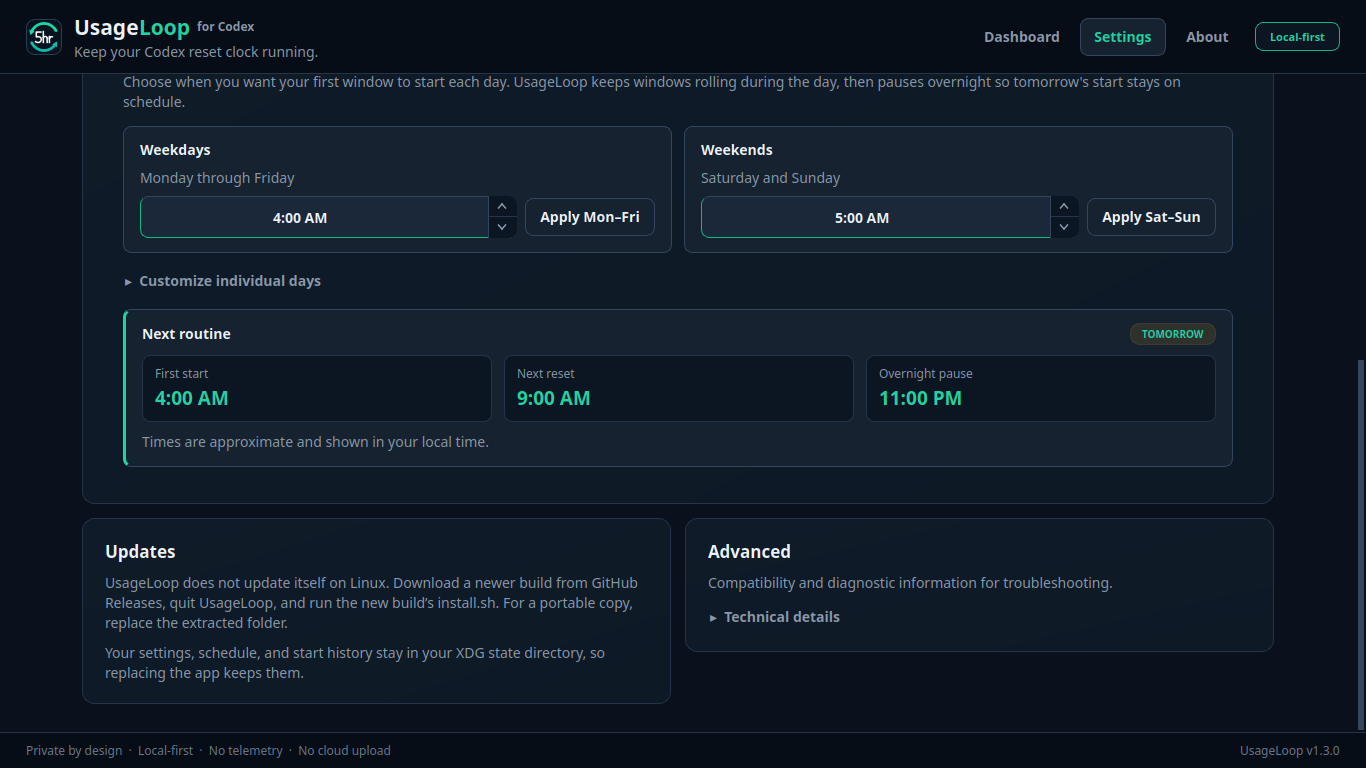
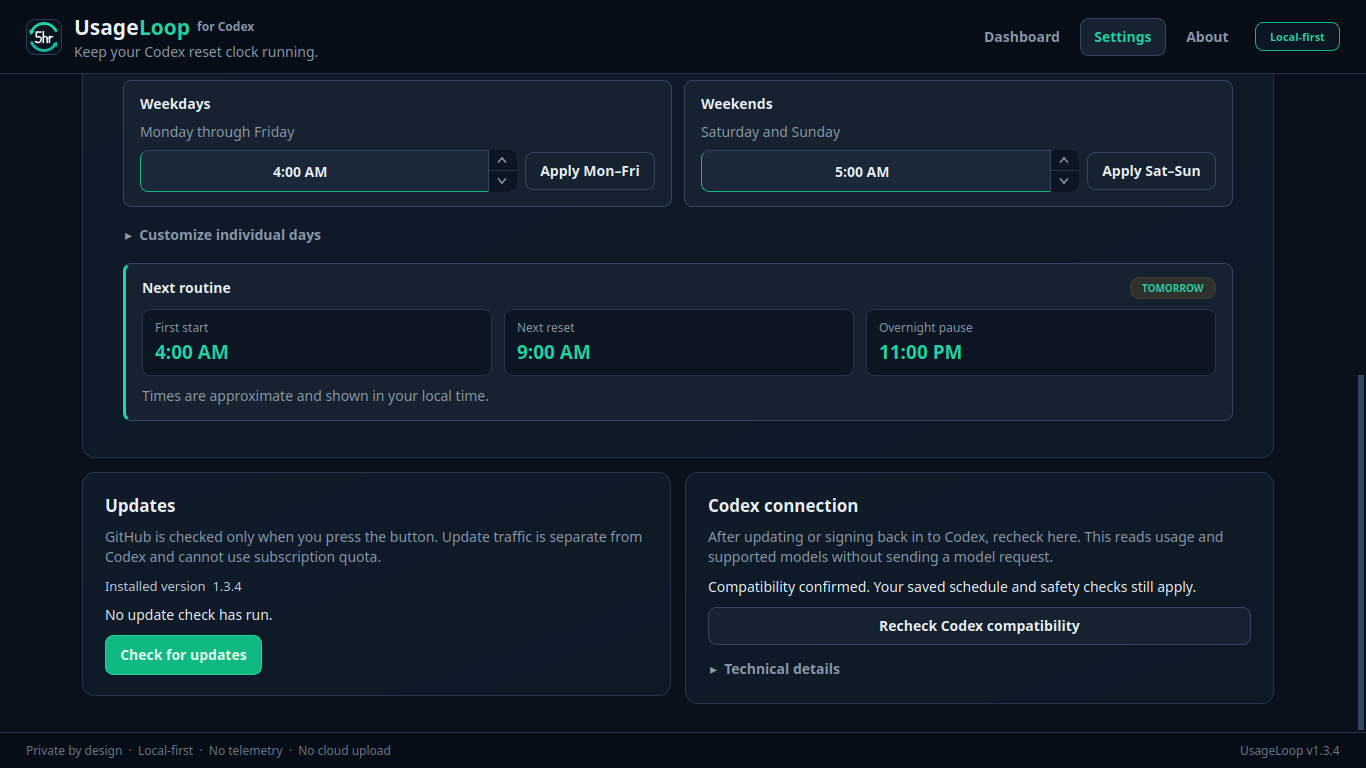
Prepare Windows and Linux launch for 1.3.4

diff --git a/docs/index.html b/docs/index.html
@@ -3,14 +3,14 @@
 <head>
   <meta charset="utf-8">
   <meta name="viewport" content="width=device-width, initial-scale=1">
-  <title>UsageLoop for Codex | Plan when your Codex day starts</title>
+  <title>UsageLoop for Codex | Windows &amp; Linux</title>
   <meta name="description" content="UsageLoop is a local-first desktop app for Windows and Linux that starts your next Codex 5-hour window on a schedule you choose, including separate weekday and weekend times. It does not add quota or bypass limits.">
   <link rel="canonical" href="https://benthompsondev.github.io/usageloop/">
   <meta name="theme-color" content="#08131f">
 
   <meta property="og:type" content="website">
   <meta property="og:site_name" content="UsageLoop">
-  <meta property="og:title" content="UsageLoop for Codex">
+  <meta property="og:title" content="UsageLoop for Codex | Windows &amp; Linux">
   <meta property="og:description" content="Plan when your Codex day starts. Set weekday and weekend first-start times, keep windows rolling, and pause overnight. Local-first for Windows and Linux, no API key or telemetry.">
   <meta property="og:url" content="https://benthompsondev.github.io/usageloop/">
   <meta property="og:image" content="https://benthompsondev.github.io/usageloop/screenshots/dashboard-1600x900.png">
@@ -18,7 +18,7 @@
   <meta property="og:image:height" content="900">
   <meta property="og:image:alt" content="UsageLoop dashboard showing a running Codex 5-hour window, weekly usage, and the next scheduled action">
   <meta name="twitter:card" content="summary_large_image">
-  <meta name="twitter:title" content="UsageLoop for Codex">
+  <meta name="twitter:title" content="UsageLoop for Codex | Windows &amp; Linux">
   <meta name="twitter:description" content="Plan when your Codex day starts. Weekday and weekend start times, rolling windows, overnight pause. Local-first for Windows and Linux, no API key or telemetry.">
   <meta name="twitter:image" content="https://benthompsondev.github.io/usageloop/screenshots/dashboard-1600x900.png">
 
@@ -34,6 +34,7 @@
     "description": "A local-first desktop app for Windows and Linux that starts your next Codex 5-hour window on a schedule you choose, including separate weekday and weekend first-start times, with rolling daytime windows and an overnight pause. It does not add quota or bypass limits.",
     "applicationCategory": "UtilitiesApplication",
     "operatingSystem": ["Windows", "Linux"],
+    "softwareVersion": "1.3.4",
     "isAccessibleForFree": true,
     "license": "https://github.com/benthompsondev/usageloop/blob/main/LICENSE",
     "url": "https://benthompsondev.github.io/usageloop/",
@@ -130,7 +131,7 @@
         <p><strong>Next routine, in plain numbers.</strong><br>The card shows the upcoming first start, the next reset five hours later, and when the overnight pause begins.</p>
       </div>
       <p>Need a day off? <strong>Pause until tomorrow</strong> waits until tomorrow's configured first-start time without changing your routine. You can resume early from the Dashboard or tray.</p>
-      <p>New in v1.3.0: <strong>Recent starts</strong> shows your last ten window-start attempts from the Dashboard or tray. See which starts were confirmed, not sent, or left uncertain. It reads existing local history and makes no Codex requests.</p>
+      <p><strong>Recent starts</strong> shows your last ten window-start attempts from the Dashboard or tray. See which starts were confirmed, not sent, or left uncertain. It reads existing local history and makes no Codex requests.</p>
       <a class="screenshot-link" href="screenshots/recent-starts.png" aria-label="Open the Recent starts screenshot">
         <img class="product-shot" src="screenshots/recent-starts.png" alt="Recent starts showing a confirmed window start and an earlier unconfirmed attempt" loading="lazy" width="660" height="640" style="max-width: 660px">
       </a>
@@ -159,7 +160,7 @@
         <div class="download-panel">
           <p class="panel-title">Windows</p>
           <p class="panel-note">An x64-compatible Windows PC. The installer is per-user and needs no administrator rights.</p>
-          <a class="button primary wide" href="https://github.com/benthompsondev/usageloop/releases/latest/download/UsageLoop-Setup.exe">Download the installer</a>
+          <a class="button primary wide" href="https://github.com/benthompsondev/usageloop/releases/latest/download/UsageLoop-Setup.exe">Download for Windows</a>
           <div class="download-links">
             <a href="https://github.com/benthompsondev/usageloop/releases/latest">Release notes</a>
             <a href="https://github.com/benthompsondev/usageloop/releases/latest/download/UsageLoop-Setup.exe.sha256">SHA-256 checksum</a>
@@ -169,12 +170,13 @@
         <div class="download-panel">
           <p class="panel-title">Linux</p>
           <p class="panel-note">An x86_64 Linux desktop with a graphical session. Installing is per-user and needs no root.</p>
-          <a class="button primary wide" href="https://github.com/benthompsondev/usageloop/releases/latest">Get the Linux archive</a>
+          <a class="button primary wide" href="https://github.com/benthompsondev/usageloop/releases/download/v1.3.4/UsageLoop-1.3.4-linux-x86_64.tar.gz">Download for Linux x86_64</a>
           <div class="download-links">
             <a href="https://github.com/benthompsondev/usageloop/releases/latest">Release notes</a>
+            <a href="https://github.com/benthompsondev/usageloop/releases/download/v1.3.4/UsageLoop-1.3.4-linux-x86_64.tar.gz.sha256">SHA-256 checksum</a>
             <a href="https://github.com/benthompsondev/usageloop#linux">Install steps</a>
           </div>
-          <p class="small">The archive is named <code>UsageLoop-&lt;version&gt;-linux-x86_64.tar.gz</code> with its <code>.sha256</code> beside it, so the download link goes to the release rather than a fixed filename. Verify the checksum, extract, then run <code>./install.sh</code> to add it to your application menu, or run it straight from the extracted folder.</p>
+          <p class="small">Version 1.3.4. Verify the checksum, extract the archive, then run <code>./install.sh</code> to add UsageLoop to your application menu. You can also run it directly from the extracted folder.</p>
           <p class="small">Tested on Ubuntu with GNOME. Other desktops should work but have not been checked. There is no ARM64 build.</p>
         </div>
       </div>
@@ -201,7 +203,7 @@
       <ol class="steps">
         <li><span>1</span><div><strong>Observe</strong><p>UsageLoop takes several local observations instead of trusting one changing timestamp.</p></div></li>
         <li><span>2</span><div><strong>Wait safely</strong><p>It waits for the current reset, checks the weekly limit, and reserves only one attempt.</p></div></li>
-        <li><span>3</span><div><strong>Start and verify</strong><p>When automation is on, it sends one minimal request and reports success only after the new reset clock is visible.</p></div></li>
+        <li><span>3</span><div><strong>Start and verify</strong><p>When automation is on, it sends one minimal guarded request and reports success only after the new reset clock is visible.</p></div></li>
       </ol>
     </section>
 
@@ -236,8 +238,12 @@
           <p>No. UsageLoop uses your installed, already signed-in Codex app and never reads its auth files or tokens.</p>
         </details>
         <details>
+          <summary>What if the Codex connection needs attention?</summary>
+          <p>After updating or signing back in to Codex, choose Recheck Codex compatibility. It reads usage and supported models without sending a model request or changing your routine.</p>
+        </details>
+        <details>
           <summary>What happens if my computer is asleep or turned off?</summary>
-          <p>UsageLoop cannot act while the computer is unavailable. It catches up after wake, restart, or the next time you sign in.</p>
+          <p>UsageLoop cannot act while the computer is unavailable. After wake, restart, or sign-in, it checks your schedule and safety conditions before starting anything.</p>
         </details>
         <details>
           <summary>Why does Windows warn about the installer?</summary>

diff --git a/README.md b/README.md
@@ -1,6 +1,6 @@
 # UsageLoop
 
-[![Latest release](https://img.shields.io/github/v/release/benthompsondev/usageloop?sort=semver)](https://github.com/benthompsondev/usageloop/releases/latest) [![Windows verification](https://github.com/benthompsondev/usageloop/actions/workflows/verify.yml/badge.svg)](https://github.com/benthompsondev/usageloop/actions/workflows/verify.yml) [![License: MIT](https://img.shields.io/badge/license-MIT-blue.svg)](LICENSE)
+[![Latest release](https://img.shields.io/github/v/release/benthompsondev/usageloop?sort=semver)](https://github.com/benthompsondev/usageloop/releases/latest) [![Windows and Linux verification](https://github.com/benthompsondev/usageloop/actions/workflows/verify.yml/badge.svg)](https://github.com/benthompsondev/usageloop/actions/workflows/verify.yml) [![License: MIT](https://img.shields.io/badge/license-MIT-blue.svg)](LICENSE)
 
 **Plan when your Codex day starts.**
 
@@ -19,7 +19,7 @@ you were going to receive anyway, earlier. It is a local-first desktop app for
 Windows and Linux, built from one shared core.
 
 **[Download for Windows](https://github.com/benthompsondev/usageloop/releases/latest/download/UsageLoop-Setup.exe)**
-· **Linux: release candidate on this branch**
+· **[Download for Linux x86_64](https://github.com/benthompsondev/usageloop/releases/download/v1.3.4/UsageLoop-1.3.4-linux-x86_64.tar.gz)**
 · [Release notes](https://github.com/benthompsondev/usageloop/releases/latest)
 · [Report a problem](https://github.com/benthompsondev/usageloop/issues/new?template=bug_report.yml)
 
@@ -31,14 +31,14 @@ your account has no five-hour window, this scheduling feature does not apply.
 
 ![UsageLoop dashboard showing an active five-hour window and the next scheduled action](docs/screenshots/dashboard.png)
 
-Screenshots show v1.3.3 on Windows with synthetic usage data. The Linux build
-runs the same UI.
+Screenshots use synthetic usage data: v1.3.3 on Windows and v1.3.4 on Linux.
+Both platforms use the same interface.
 
 - Native x64 Windows and Linux builds with a quiet system tray mode
 - Free and open source under the MIT license
 - No API key, telemetry, cloud account, or administrator rights
 - Never reads Codex credentials, prompts, responses, or conversations
-- Automation and Windows startup are off by default
+- Automation and start at sign-in are off by default
 
 [Website](https://benthompsondev.github.io/usageloop/) ·
 [Set your weekly routine](#set-your-weekly-routine) · [Install](#install) ·
@@ -155,16 +155,21 @@ app's own launcher to wherever it is installed, then falls back to `codex` on
 `PATH`. The desktop app puts no `codex` on `PATH` at all, so searching `PATH`
 alone would report Codex as missing on a machine that clearly has it.
 
-The current Linux candidate is built from this branch; it is not attached to
-the Windows v1.3.0 release. Build it using the source instructions below,
-then verify, extract, and run the resulting archive:
+Download the archive and matching checksum:
+
+- [UsageLoop-1.3.4-linux-x86_64.tar.gz](https://github.com/benthompsondev/usageloop/releases/download/v1.3.4/UsageLoop-1.3.4-linux-x86_64.tar.gz)
+- [UsageLoop-1.3.4-linux-x86_64.tar.gz.sha256](https://github.com/benthompsondev/usageloop/releases/download/v1.3.4/UsageLoop-1.3.4-linux-x86_64.tar.gz.sha256)
+
+From the folder containing both downloads:
 
 ```bash
-sha256sum -c UsageLoop-*-linux-x86_64.tar.gz.sha256
-tar -xzf UsageLoop-*-linux-x86_64.tar.gz
-cd UsageLoop-*-linux-x86_64
+sha256sum -c UsageLoop-1.3.4-linux-x86_64.tar.gz.sha256
+tar -xzf UsageLoop-1.3.4-linux-x86_64.tar.gz
+cd UsageLoop-1.3.4-linux-x86_64
 ./UsageLoop/UsageLoop
 ```
+
+The checksum must report `OK` before you extract or run the app.
 
 To add it to your application menu, run the bundled per-user installer. It needs
 no root, touches no system files, and changes no `PATH`:
@@ -179,8 +184,8 @@ entry. It leaves your settings and start history alone.
 ![UsageLoop Settings on Linux showing the Linux startup card with a per-user autostart toggle](docs/screenshots/settings-linux.png)
 
 The Dashboard, schedule, Pause, and Recent starts are the same as the Windows
-screenshots above. Only two things differ: the startup card names your desktop
-session instead of Windows, and there is no in-app updater.
+screenshots above. The startup card names your desktop session, and updates use the Linux archive
+instead of the Windows installer.
 
 ARM64 is not built yet. Nothing in the app blocks it, it just has not been built
 or tested, so there is no artifact to download.
@@ -264,7 +269,7 @@ weekly snapshots. It never selects a model or starts a Codex turn.
    leave.
 4. On a true first run, choose **Start my first window now**. This explicit
    action uses the same evidence and weekly checks as an automatic start.
-5. Leave UsageLoop in the tray. Automation and Windows startup stay off until
+5. Leave UsageLoop in the tray. Automation and start at sign-in stay off until
    you enable them.
 
 Windows startup runs UsageLoop in your signed-in desktop session. If the PC
@@ -272,7 +277,7 @@ sleeps, the app catches up after wake. If it is powered off or you are signed
 out, it catches up the next time you sign in. UsageLoop does not install a
 Windows service or store your Windows password.
 
-Settings contains the schedule, Windows startup, manual updates, and collapsed
+Settings contains the schedule, start at sign-in, manual updates, and collapsed
 technical diagnostics. Update checks contact GitHub only after a button click
 and never affect quota.
 
@@ -290,11 +295,11 @@ installed `codex app-server` locally, but it does not:
 
 Safe local history contains only timestamps, window duration, usage, reset
 times, classifier evidence, attempt states, and sanitized error categories.
-Automation and Windows startup are both off on a new install. While automation
+Automation and start at sign-in are both off on a new install. While automation
 is off, UsageLoop performs no provider-triggering work.
 
-The source is public, releases include a SHA-256 checksum, and the Windows test
-and packaging workflow is visible in [GitHub Actions](https://github.com/benthompsondev/usageloop/actions/workflows/verify.yml).
+The source is public, releases include SHA-256 checksums, and the Windows and
+Linux test and packaging workflow is visible in [GitHub Actions](https://github.com/benthompsondev/usageloop/actions/workflows/verify.yml).
 The installer is still unsigned, so the checksum and public build process are
 useful verification signals, not a substitute for a trusted code-signing
 identity.
@@ -351,7 +356,7 @@ problem and recheck when ready. UsageLoop does not repeatedly retry it for you.
 - [Report a problem](https://github.com/benthompsondev/usageloop/issues/new?template=bug_report.yml)
 - [Request a feature](https://github.com/benthompsondev/usageloop/issues/new?template=feature_request.yml)
 
-Bug reports can include the privacy-safe summary from **Settings → Advanced →
+Bug reports can include the privacy-safe summary from **Settings → Codex connection → Technical details →
 Copy this summary**. Do not paste credentials, Codex prompts or responses,
 conversations, account information, auth files, or unrelated logs.
 

diff --git a/docs/RELEASING.md b/docs/RELEASING.md
@@ -27,10 +27,9 @@ configuration is never changed.
 
 ## Linux
 
-The next shared release should be **1.4.0**: Linux support adds a product
-capability after the immutable Windows v1.3.0 tag. Candidate archives from
-`linux-1.3.0` must not be attached to that existing release. Keep the PR open
-until the real automatic-start check passes and the candidate is accepted.
+Version **1.3.4** is the first shared Windows and Linux x86_64 release. The
+natural Linux rollover was confirmed on September 5, 2026; see
+[the acceptance record](1.3.4-validation.md).
 
 From a clean `main` checkout on an x86_64 Linux desktop:
 
@@ -112,7 +111,8 @@ For a release:
 4. Attach each platform's artifact and its checksum without renaming either.
 5. Install the uploaded artifacts on a clean machine of each platform shipped.
 6. Confirm `/releases/latest` returns the tag and every exact asset.
-7. Check the live README and website download, checksum, and release-note links.
+7. Update versioned Linux download links in README and `docs/index.html`, and
+   the structured-data version on the site. Check the live README and website download, checksum, and release-note links.
    Stable links should use `/releases/latest`; keep prereleases pinned
    separately. Refresh the screenshots used by those pages when the visible
    workflow changes, and check the installed Windows app's manual updater.
@@ -135,4 +135,5 @@ The Windows updater reads the latest GitHub Release for
 `benthompsondev/usageloop`. It rejects missing assets, untrusted
 download hosts, older versions, and checksum mismatches. Repository and asset
 names are therefore compatibility contracts for already-installed copies. The
-Linux build has no in-app updater, so its archive name may carry the version.
+Linux updater also matches its versioned archive and checksum names. Keep the
+Windows installer filenames stable so existing installations can upgrade.

diff --git a/docs/1.3.4-validation.md b/docs/1.3.4-validation.md
@@ -1,0 +1,26 @@
+# 1.3.4 acceptance
+
+The installed Linux build completed one natural automatic rollover on September
+5, 2026. Times below are America/Toronto (EDT).
+
+- 16:19:53: one rollover reservation using `gpt-5.6-luna / low`.
+- The same attempt progressed through launch attempted and possibly sent.
+- 16:20:31: post-trigger observations verified the fixed reset at 21:19:51.
+- Four samples over 32 seconds agreed on the reset timestamp. Recent starts
+  reports Confirmed; the provider is Ready and compatibility remains passed.
+- The journal contains one attempt, with no duplicate reservation or retry.
+
+The run closes the remaining Linux acceptance gap. A focused inspection found
+no runtime defect requiring a patch. Raw installed state and journal snapshots
+remain local; no account data or runtime identifiers are included here.
+
+The earlier failed compatibility state recovered through the inherited
+read-only Recheck action without sending a model turn. The cross-filesystem
+XDG migration regression preserves settings and trigger reservations. Trigger
+selection, standard service, weekly protection, and idempotency code are
+unchanged for this launch.
+
+The release uses Windows and Linux packages from the verification workflow on
+released main. That workflow runs both suites and the Windows fresh-install,
+upgrade-chain, and broken-registration scenarios. Keep the Windows installer
+and checksum filenames unchanged for existing installations.

diff --git a/docs/LINUX_HANDOFF.md b/docs/LINUX_HANDOFF.md
@@ -6,7 +6,20 @@ cross-platform verification instead of redoing the investigation.
 Written after building and running UsageLoop 1.3.0 on Ubuntu 26.04, GNOME on
 Wayland, x86_64, against a real signed-in Codex install.
 
-## September 5 refresh: 1.3.4 candidate
+## September 5 natural rollover: accepted
+
+The installed 1.3.4 build recorded exactly one natural automatic start at
+16:19:53 EDT on September 5, 2026, using `gpt-5.6-luna / low`. At 16:20:31,
+post-trigger observations confirmed the fixed reset at 21:19:51. The attempt
+followed reserved, launch attempted, possibly sent, and verified states without
+a duplicate. Compatibility remains passed and the provider is Ready.
+
+This closes the Linux automatic-start acceptance gap described below. No
+runtime patch was needed after inspecting the successful run. Raw state and
+journal evidence are preserved locally. See [1.3.4 validation](1.3.4-validation.md)
+for the public release record. Older sections below are historical notes.
+
+## September 5 refresh: 1.3.4 candidate (historical)
 
 PR #1 now includes main v1.3.3 (`170c7e3`) and its existing **Recheck Codex
 compatibility** action. The candidate version is **1.3.4**. This supersedes the
